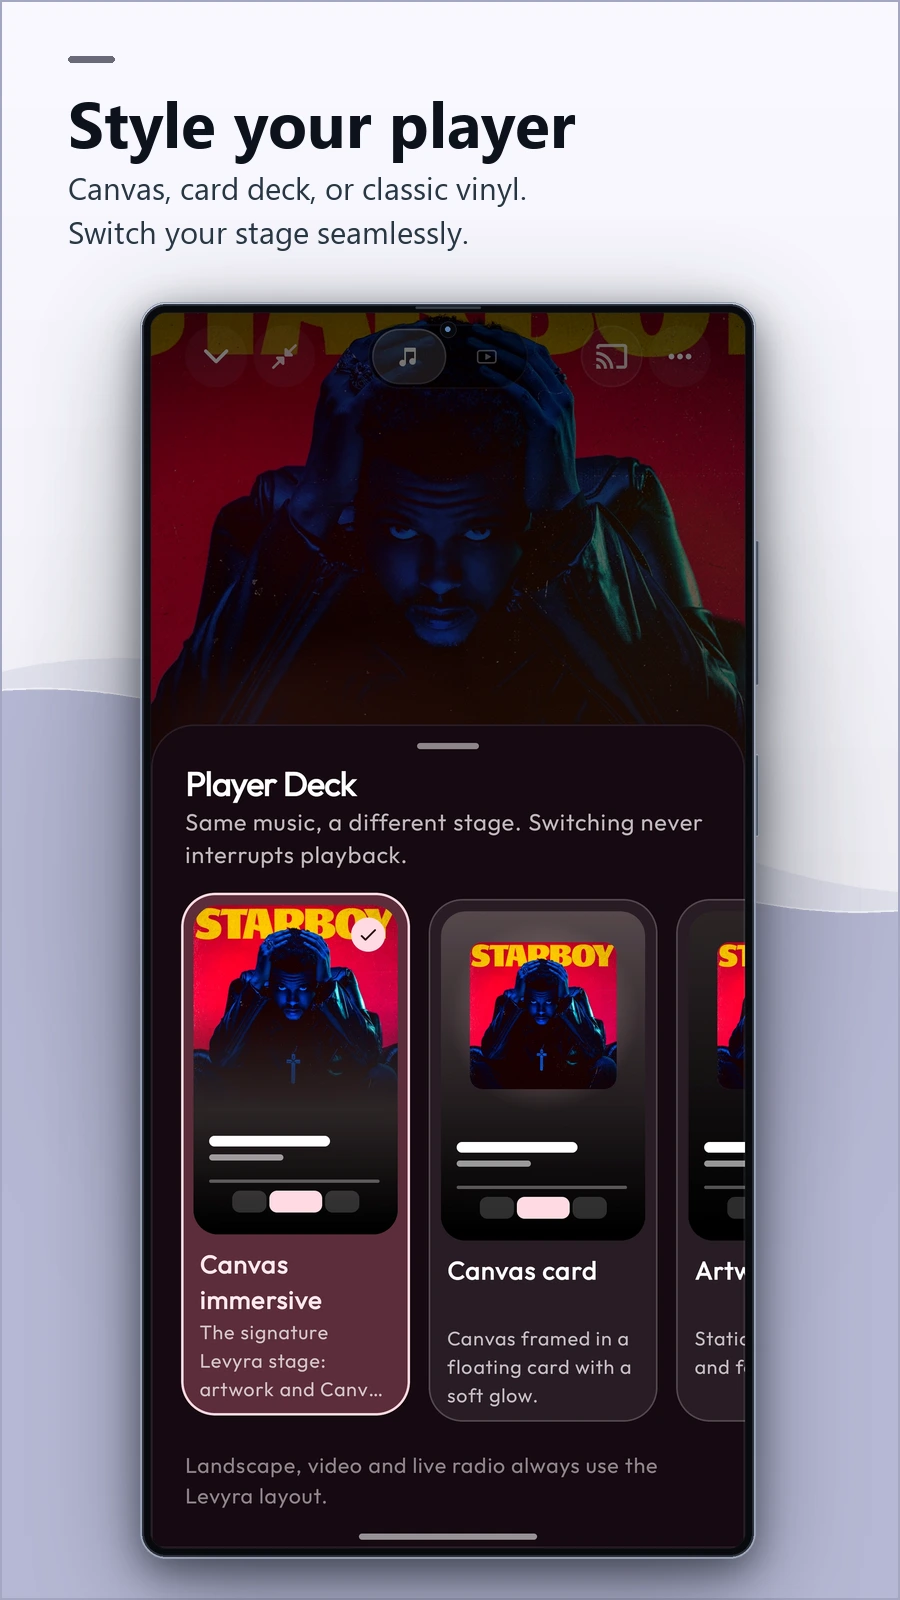
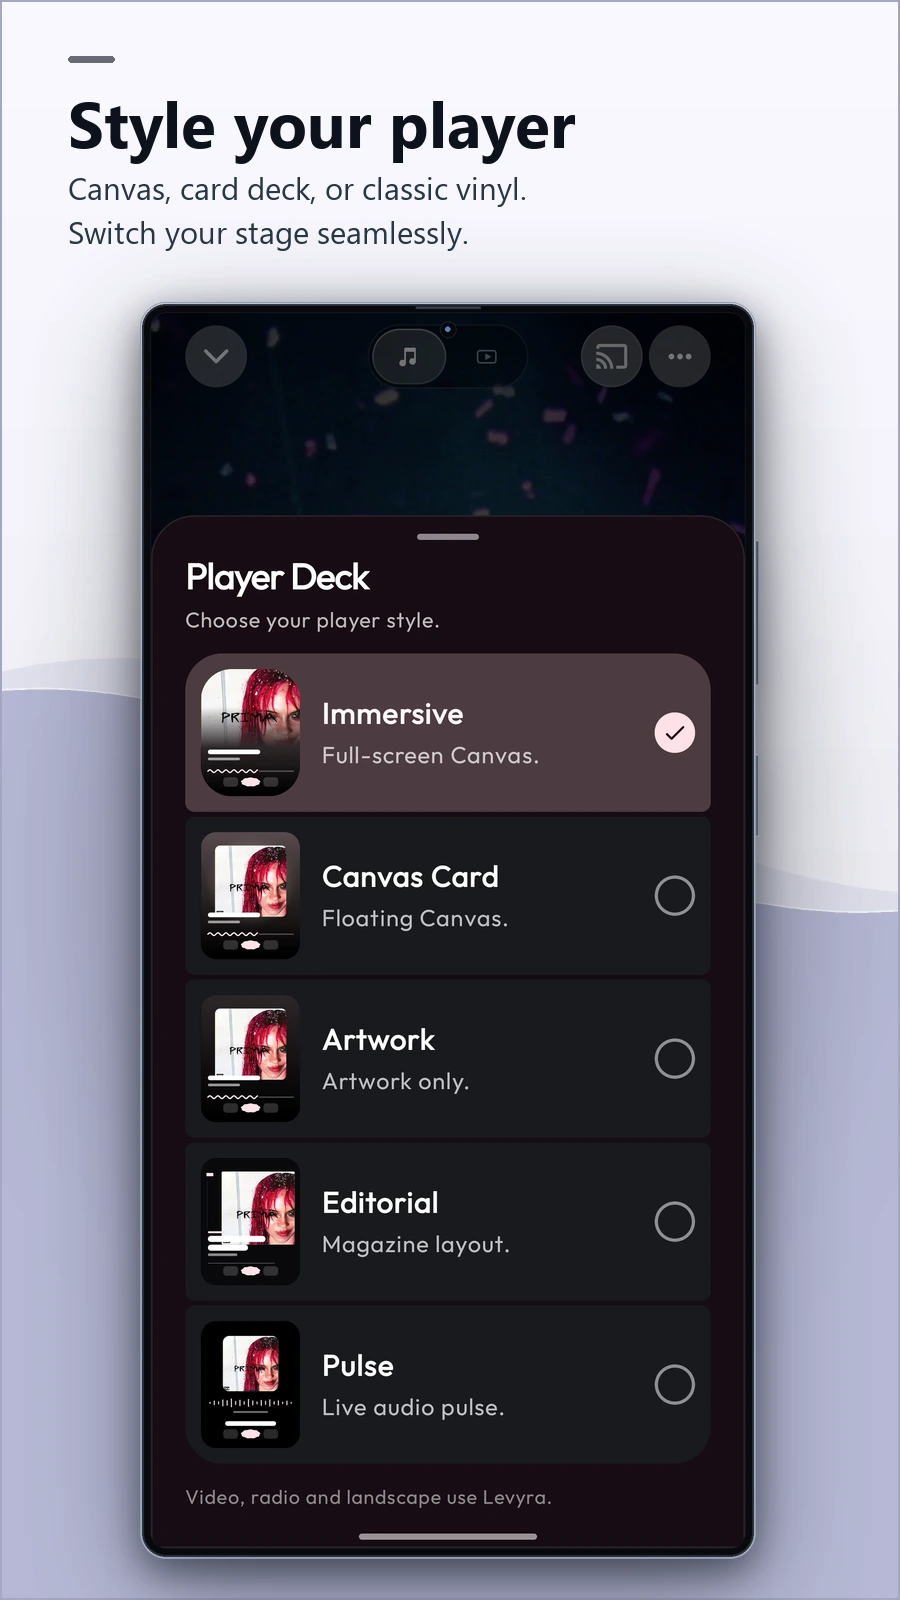
docs(readme): update Style your player and Shape the playback showcase cards with latest UI

Changed region(s): [[0.1556, 0.1875, 0.84, 0.9375], [0.6533, 0.9062, 0.6844, 0.9375]]

diff --git a/scripts/generate_showcase_assets.py b/scripts/generate_showcase_assets.py
@@ -660,10 +660,10 @@ def generate_feature_cards():
 
     single_specs = [
         (0, "03_now_playing.webp", "screen-lyrics.jpg", "Follow every line", "Synced lyrics move\nwith the music.", C_CASHMERE),
-        (1, "04_player_deck.webp", "Screenshot_20260929_195520_LEVYRA.jpg", "Style your player", "Canvas, card deck, or classic vinyl.\nSwitch your stage seamlessly.", C_TWILIGHT),
+        (1, "04_player_deck.webp", "Screenshot_20261010_190538_LEVYRA.jpg", "Style your player", "Canvas, card deck, or classic vinyl.\nSwitch your stage seamlessly.", C_TWILIGHT),
         (3, "06_artist_profile.webp", "Screenshot_20261010_143646_LEVYRA.jpg", "Meet the artist", "Full discography, singles, biographies,\nand top tracks in one tap.", C_TWILIGHT),
         (4, "07_genres.webp", "Screenshot_20261010_132249_LEVYRA.jpg", "Pick a direction", "Move through moods, vibes, and genres\ncrafted for every moment.", C_SAGE),
-        (5, "08_audio_tuning.webp", "Screenshot_20260926_194845_LEVYRA.jpg", "Shape the playback", "Sleep timer, tempo tuning, loudness norm,\nand advanced audio engine.", C_CELESTE),
+        (5, "08_audio_tuning.webp", "Screenshot_20261010_190726_LEVYRA.jpg", "Shape the playback", "Sleep timer, tempo tuning, loudness norm,\nand advanced audio engine.", C_CELESTE),
         (6, "09_album.webp", "Screenshot_20260926_194706_LEVYRA.jpg", "Open the album", "High-resolution artwork, release info,\nand complete tracklists.", C_CASHMERE),
         (7, "10_search.webp", "Screenshot_20261010_145010_LEVYRA.jpg", "Find it instantly", "Recent searches, suggestions, and\ninstant matching across your music.", C_CELESTE),
         (8, "11_collections.webp", "Screenshot_20261010_132136_LEVYRA.jpg", "Curated for you", "Handpicked playlists and gems\nrevolving around what you love.", C_TWILIGHT),
